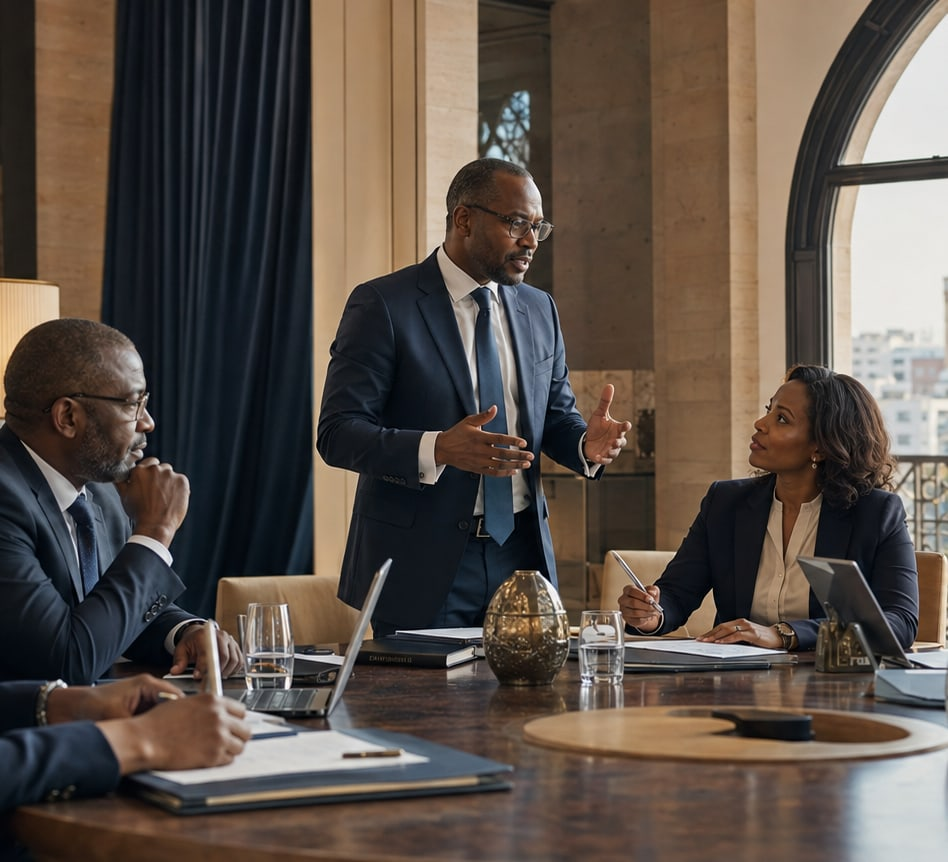
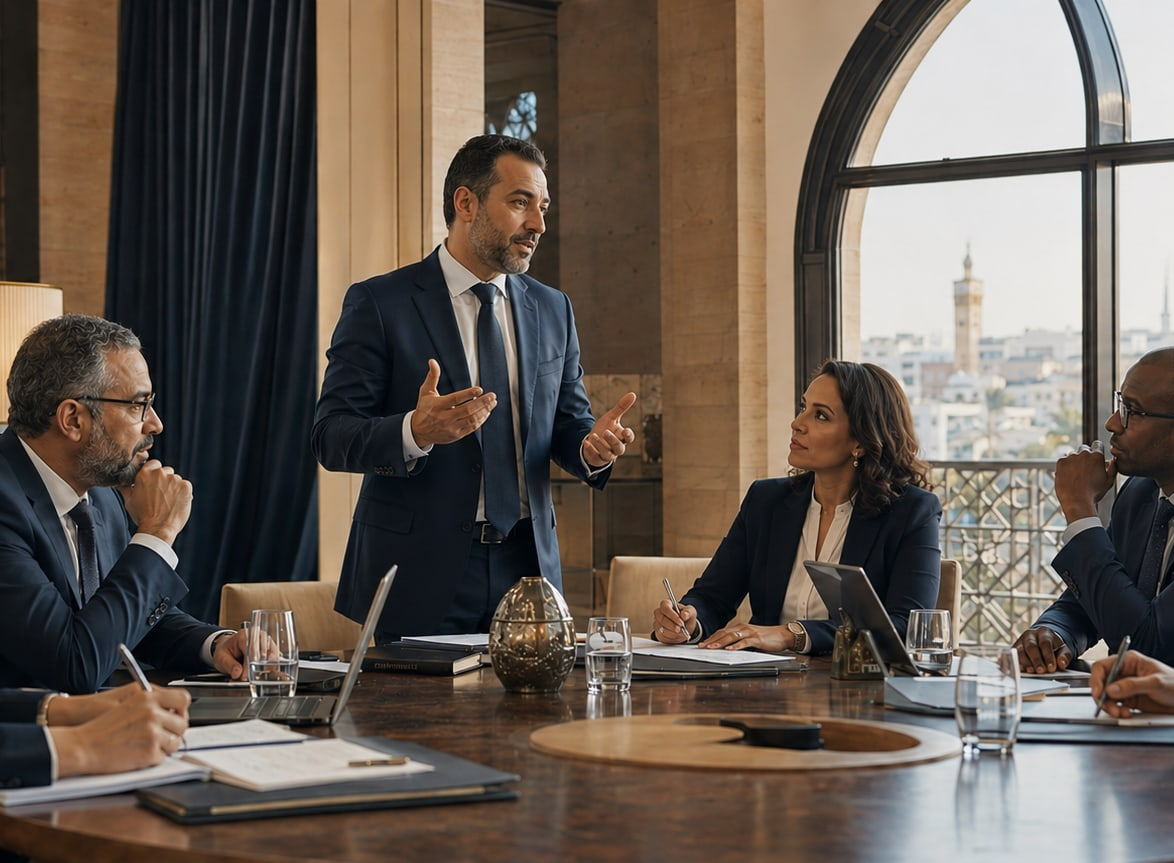
feat: remplace la photo de la page d'accueil par la nouvelle version
La composition demandée est respectée : majorité de profils maghrébins,
avec un cadre subsaharien, femmes et hommes.

Cadrage
Les trois barres perdent six centimètres de hauteur, ce qui élargit la
fenêtre de cadrage de 948 à 1174 pixels de large. La tranche de droite
accueille ainsi la participante et le cadre subsaharien, au lieu de la
participante seule. Chaque barre porte donc une personne lisible, et la
scène reste continue de l'une à l'autre.

La photo d'origine non recadrée reste disponible sous source-accueil.jpg
pour refaire le cadrage sans nouveau dépôt.

Claude-Session: https://claude.ai/code/session_01PU698gHq2CuwVurLBt73F3

diff --git a/src/components/PhotoCard.tsx b/src/components/PhotoCard.tsx
@@ -33,7 +33,7 @@ export function PortraitCard({
   // sinon la scène ne se recompose plus. Le décalage vertical reste.
   const sliced = slice !== undefined
   const height = sliced
-    ? 'h-[18rem] sm:h-[25rem] lg:h-[32rem]'
+    ? 'h-[16rem] sm:h-[22rem] lg:h-[26rem]'
     : offset === 'up'
       ? 'h-[19rem] sm:h-[26rem] lg:h-[34rem]'
       : 'h-[17rem] sm:h-[23rem] lg:h-[30rem]'
